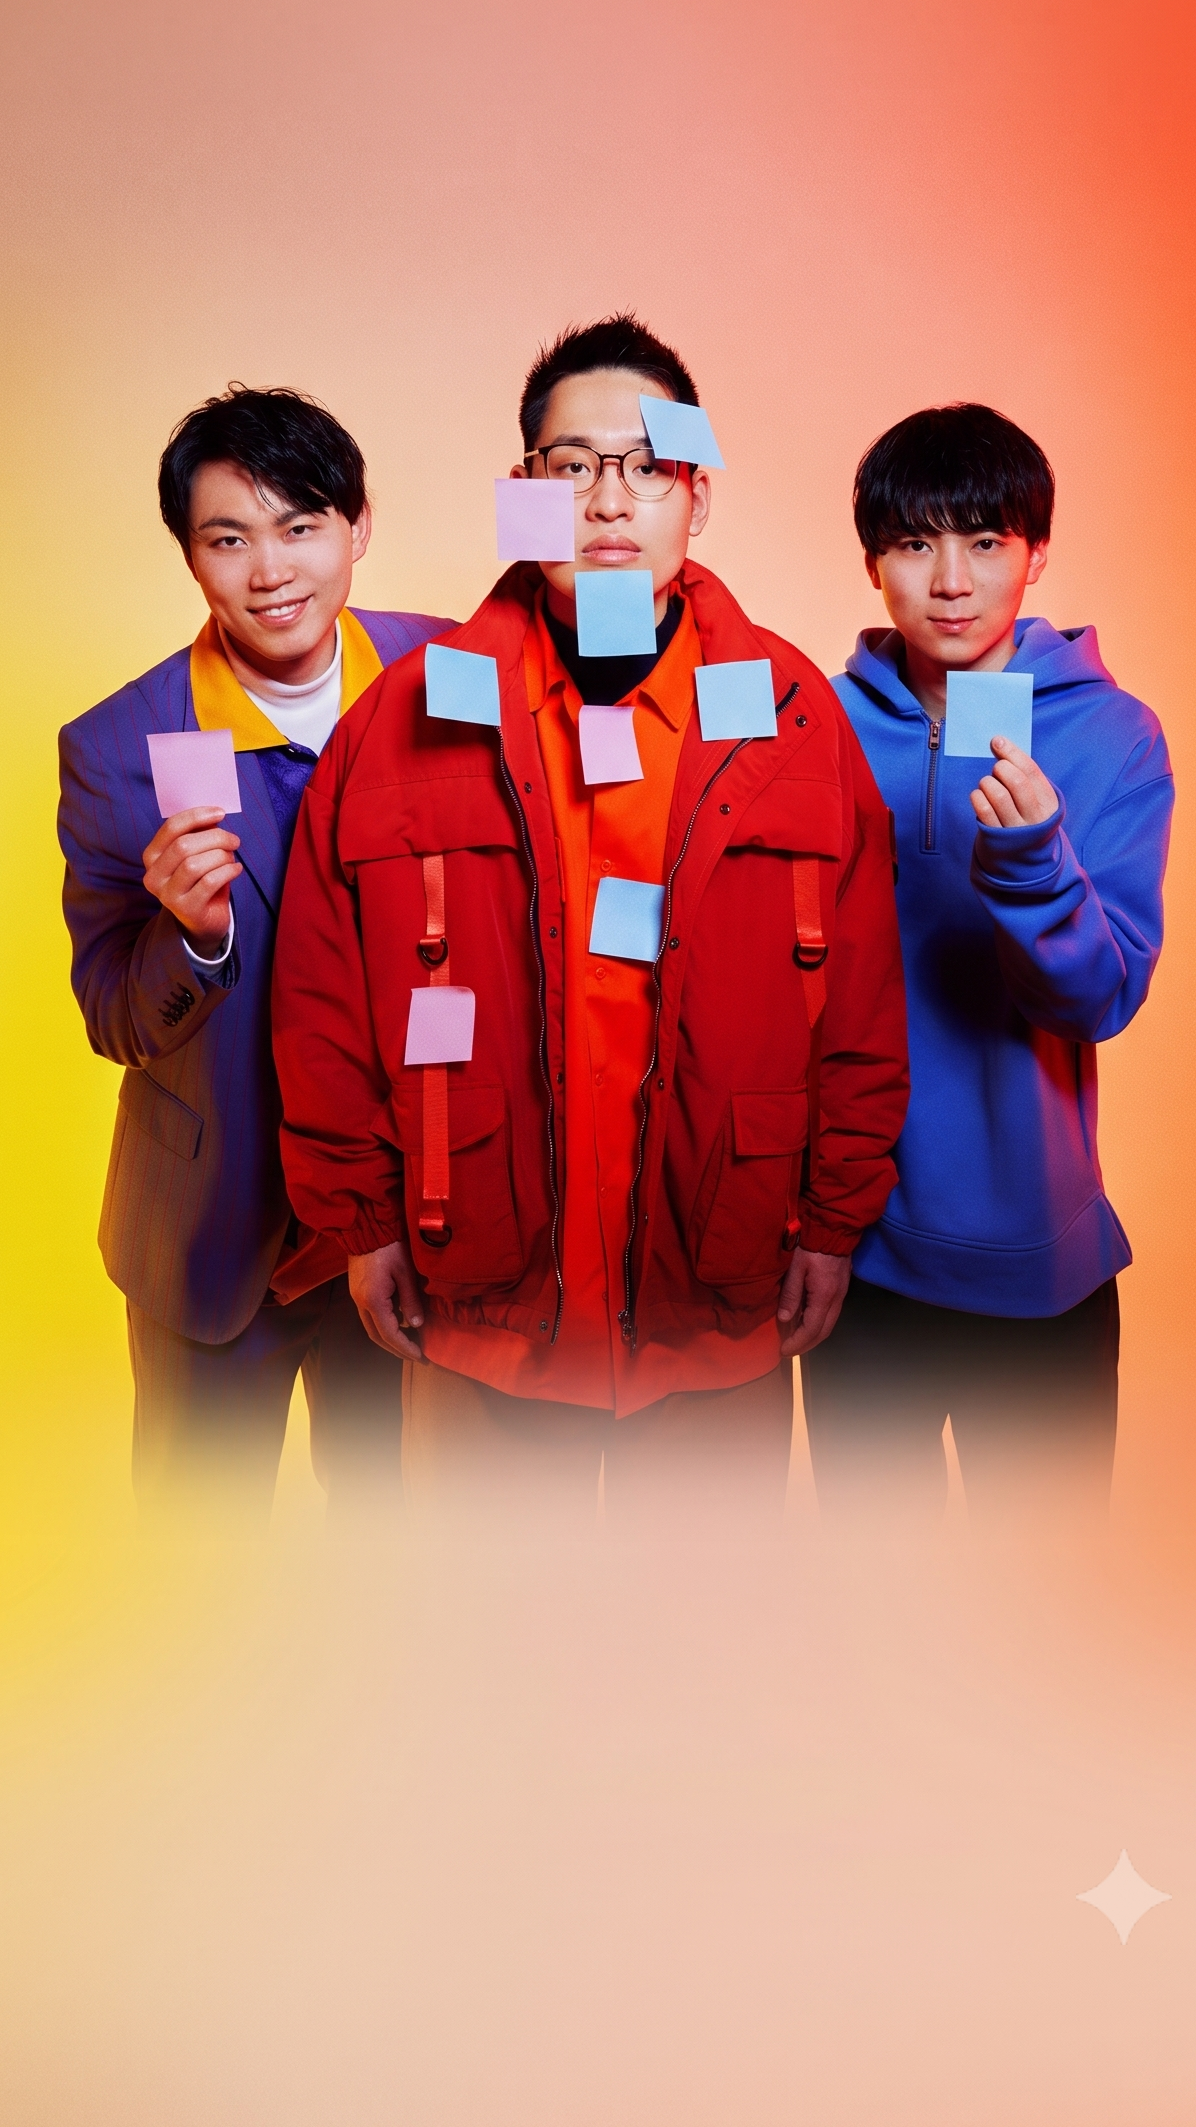
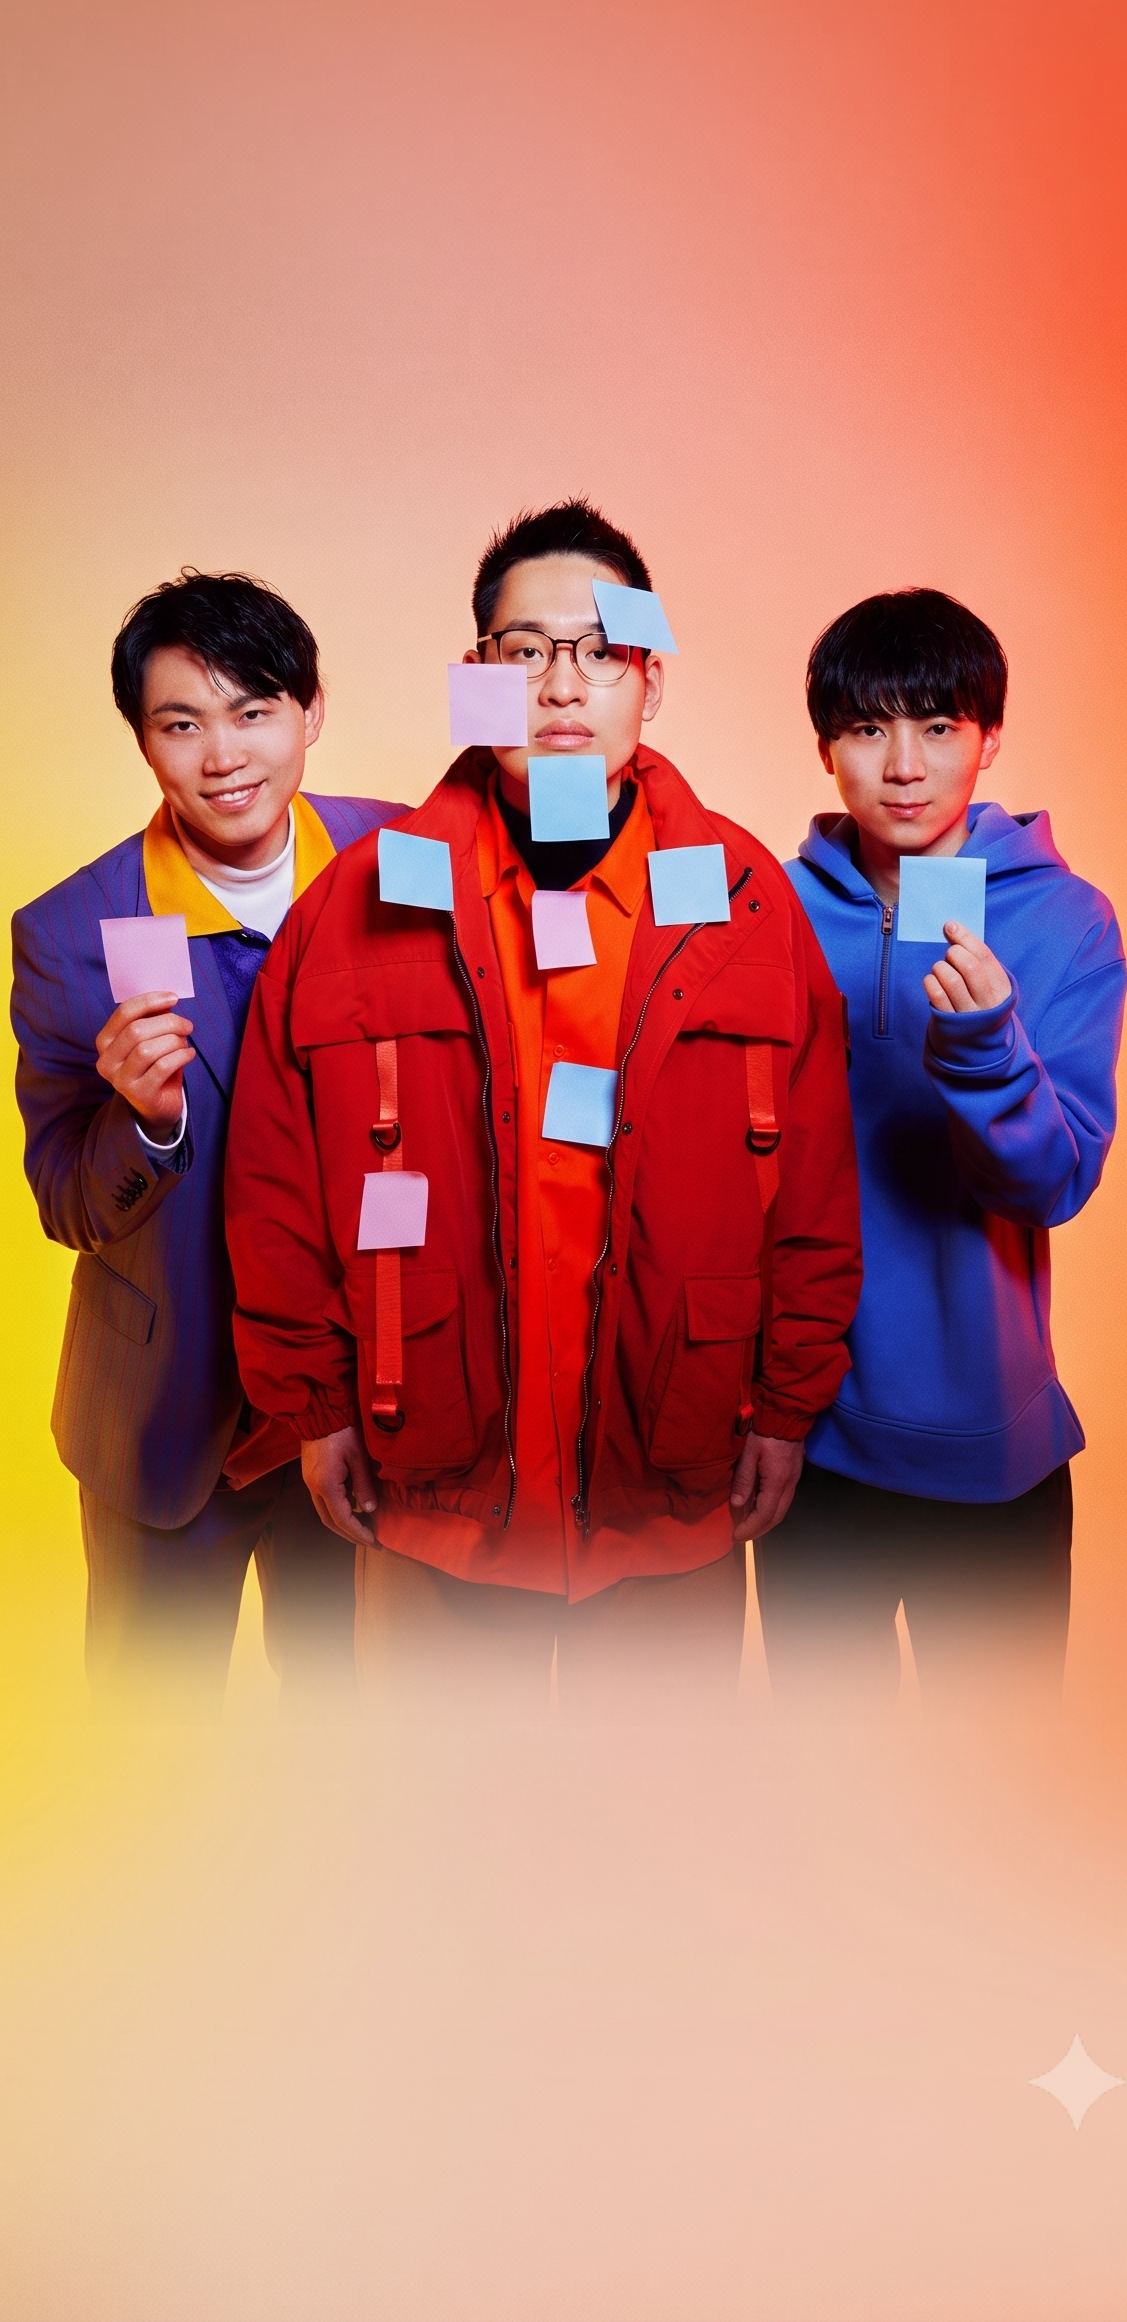
fix(mobile-hero): Render mobile hero full-screen edge-to-edge (100dvh) with unoptimized raw image rendering

diff --git a/src/components/mobile-hero-carousel.tsx b/src/components/mobile-hero-carousel.tsx
@@ -1,23 +1,20 @@
 "use client";
 
-import { motion } from "framer-motion";
-import Image from "next/image";
 import { Sparkles, ChevronDown, Play } from "lucide-react";
 import { GiantTitle } from "@/components/giant-title";
 import { WipeLink } from "@/components/wipe-link";
 
 export function MobileHeroCarousel() {
   return (
-    <div className="relative w-full h-full flex flex-col justify-between overflow-hidden bg-neutral-950 text-white sm:hidden">
-      {/* スマホ全画面ぴったりに敷き詰める大判ヒーロー画像（顔部分は100%クリア・モヤ一切なし） */}
+    <div className="relative w-full h-[100dvh] flex flex-col justify-between overflow-hidden bg-neutral-950 text-white sm:hidden">
+      {/* 画面いっぱいに敷き詰める大判ヒーロー画像（100dvhフル表示） */}
       <div className="absolute inset-0">
-        {/* 画面いっぱいに敷き詰める全画面ヒーロー画像 (標準imgタグでキャッシュ即時反映) */}
         <img
           src="/hero-mobile.png"
           alt="今日ポケ メンバー"
           className="absolute inset-0 w-full h-full object-cover object-center"
         />
-        {/* 顔には一切被らないよう、文字がある最下部35%のみにグラデーションを限定 */}
+        {/* 顔には一切被らないよう、文字がある最下部38%のみにグラデーションを限定 */}
         <div className="absolute inset-x-0 bottom-0 h-[38%] bg-gradient-to-t from-black via-black/80 to-transparent pointer-events-none" />
       </div>
 
